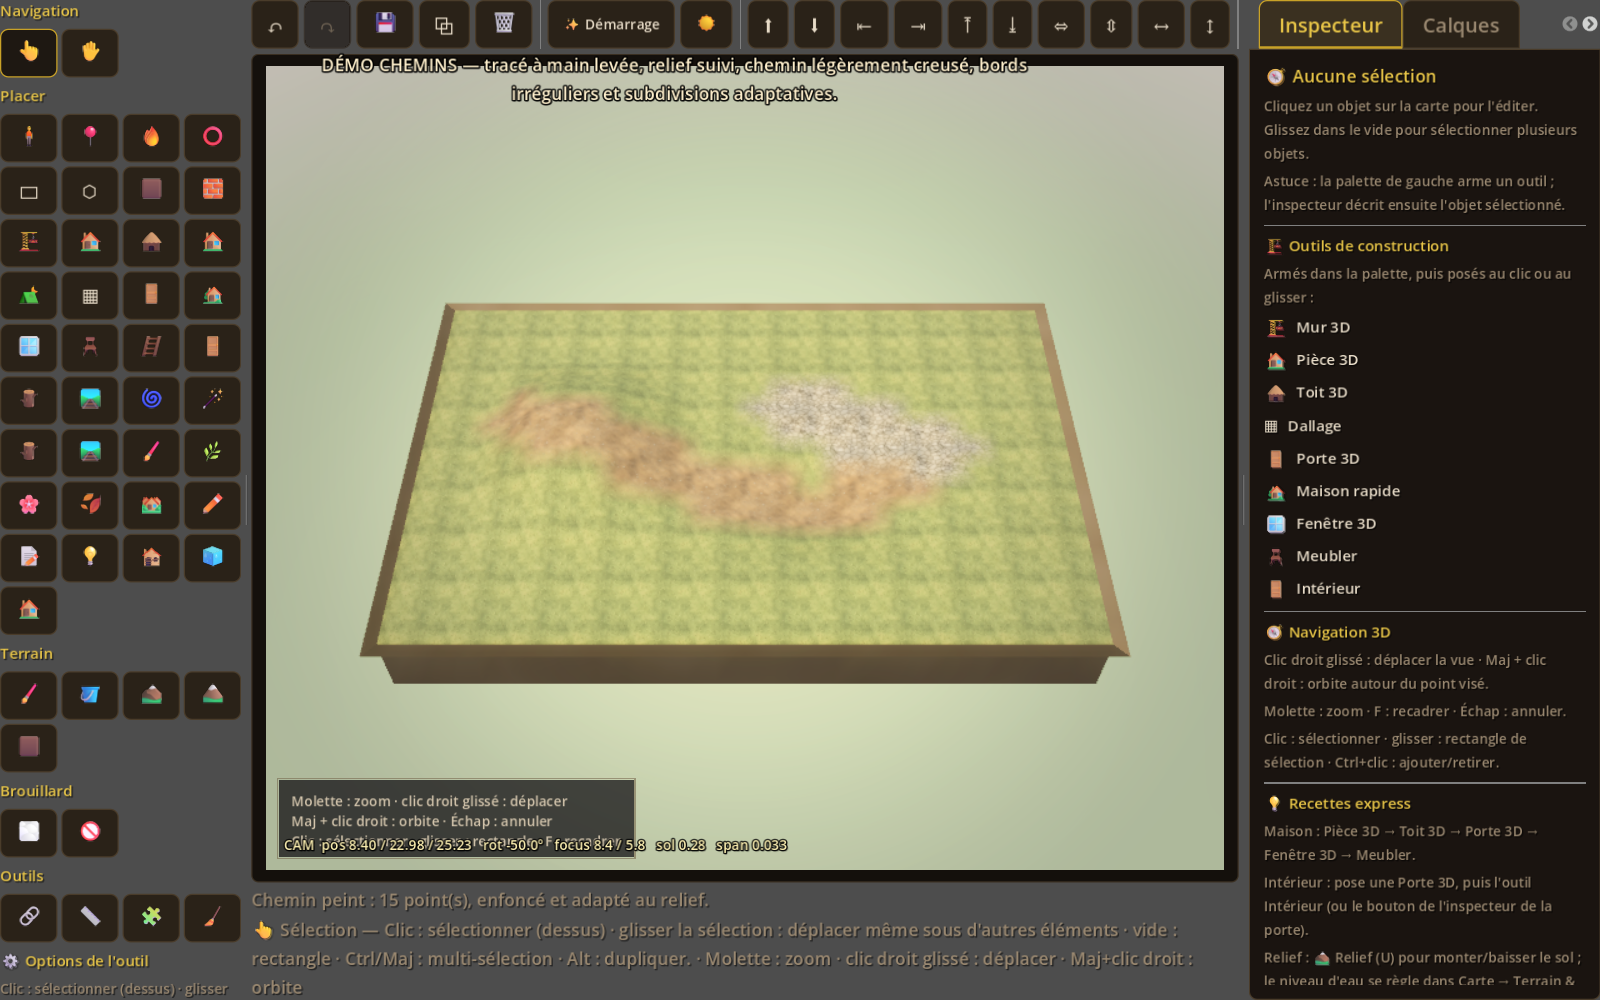
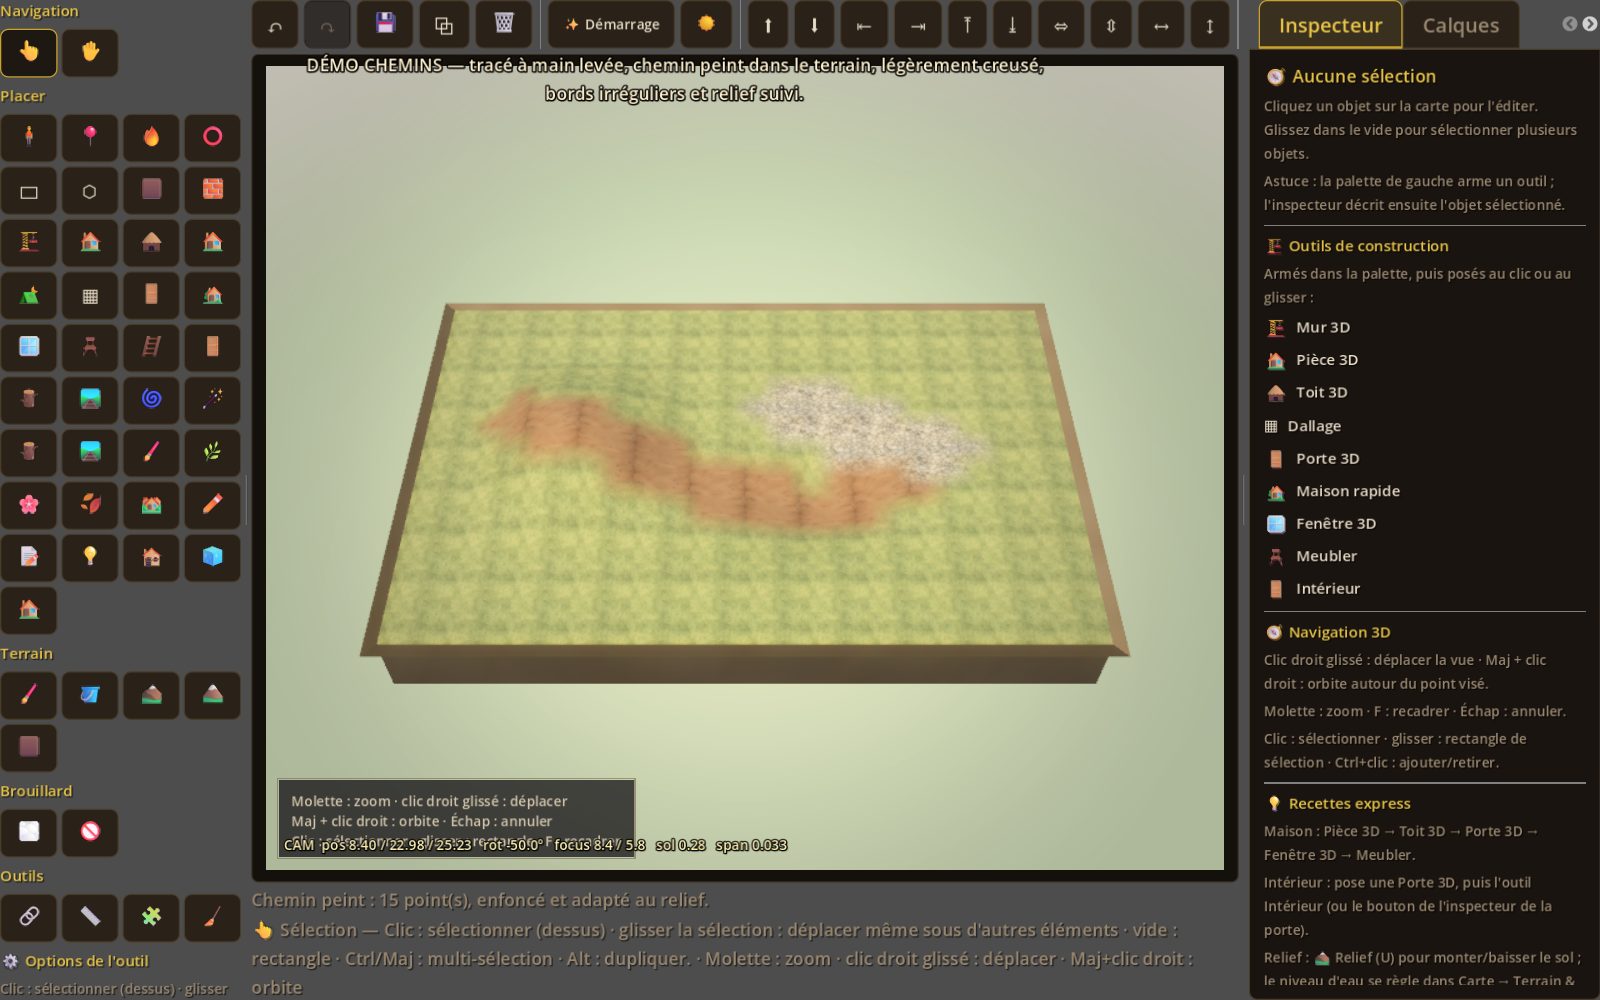
feat(chemins): texture de terre IA et chargement propre

Changed region(s): [[0.1875, 0.062, 0.6562, 0.124], [0.3125, 0.403, 0.5938, 0.527]]

diff --git a/tools/ai/generate_path_texture.py b/tools/ai/generate_path_texture.py
@@ -1,0 +1,80 @@
+#!/usr/bin/env python3
+"""Génère une texture de chemin via Google Nano Banana / Gemini image.
+
+La clé n'est jamais dans le dépôt : elle est lue dans
+`%APPDATA%/OpenQuest_jdr/secrets/google_banana.key` (ou via
+`GOOGLE_BANANA_API_KEY`). Sortie par défaut : game/assets/terrain/dirt_ai.png.
+
+Usage :
+  python tools/ai/generate_path_texture.py --prompt "seamless dirt path..." \
+      --output game/assets/terrain/dirt_ai.png
+"""
+from __future__ import annotations
+
+import argparse
+import base64
+import json
+import os
+import urllib.request
+from pathlib import Path
+
+MODEL = "gemini-2.5-flash-image"
+ENDPOINT = f"https://generativelanguage.googleapis.com/v1beta/models/{MODEL}:generateContent"
+
+
+def read_key() -> str:
+    key = os.environ.get("GOOGLE_BANANA_API_KEY", "").strip()
+    if key:
+        return key
+    appdata = os.environ.get("APPDATA")
+    if appdata:
+        path = Path(appdata) / "OpenQuest_jdr" / "secrets" / "google_banana.key"
+        if path.exists():
+            return path.read_text(encoding="utf-8").strip()
+    raise SystemExit("Clé absente : définir GOOGLE_BANANA_API_KEY ou le fichier secrets/google_banana.key")
+
+
+def generate(prompt: str, key: str) -> bytes:
+    payload = {
+        "contents": [{"parts": [{"text": prompt}]}],
+        "generationConfig": {
+            "responseModalities": ["IMAGE"],
+            "imageConfig": {"aspectRatio": "1:1"},
+        },
+    }
+    req = urllib.request.Request(
+        ENDPOINT,
+        data=json.dumps(payload).encode("utf-8"),
+        headers={"Content-Type": "application/json", "x-goog-api-key": key},
+        method="POST",
+    )
+    with urllib.request.urlopen(req, timeout=120) as response:
+        data = json.loads(response.read().decode("utf-8"))
+    for part in data.get("candidates", [{}])[0].get("content", {}).get("parts", []):
+        inline = part.get("inlineData") or {}
+        if inline.get("data"):
+            return base64.b64decode(inline["data"])
+    raise SystemExit("Réponse sans image (vérifier le prompt/modèle)")
+
+
+def main() -> None:
+    parser = argparse.ArgumentParser()
+    parser.add_argument(
+        "--prompt",
+        default=(
+            "Seamless tileable top-down albedo texture for a medieval dirt footpath: "
+            "packed earth, small gravel, subtle stones, worn center, warm natural browns, "
+            "no shadows, no border, no text, game texture, 1024x1024, stylized."
+        ),
+    )
+    parser.add_argument("--output", default="game/assets/terrain/dirt_ai.png")
+    args = parser.parse_args()
+    png = generate(args.prompt, read_key())
+    out = Path(args.output)
+    out.parent.mkdir(parents=True, exist_ok=True)
+    out.write_bytes(png)
+    print(f"écrit {out} ({len(png)} octets)")
+
+
+if __name__ == "__main__":
+    main()
